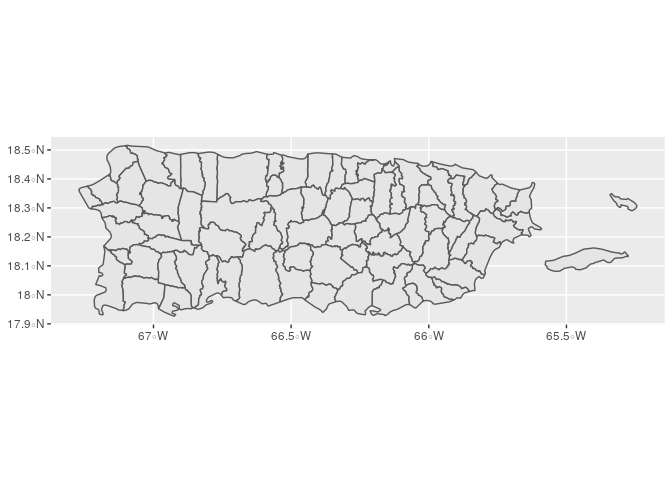
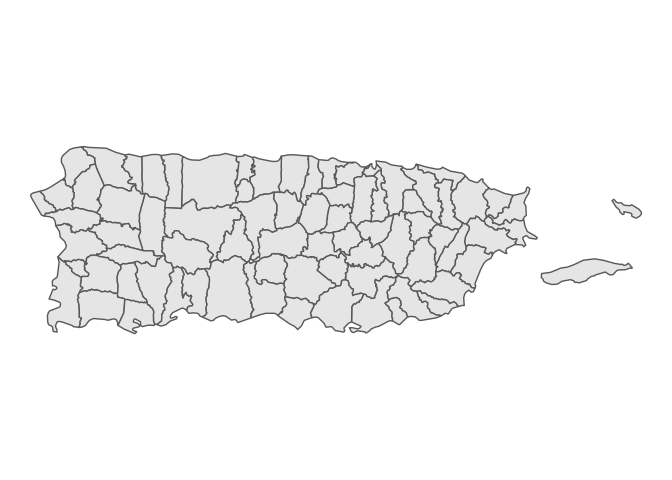
Fixing Travis CI

diff --git a/README.md b/README.md
@@ -28,7 +28,8 @@ devtools::install_github('ian-flores/tidymapgrid')
 
 ## Example
 
-This is a basic example which shows you how to solve a common problem:
+This is a basic example which shows you how to obtain the grid for your
+map.
 
 ``` r
 library(sf)
@@ -49,7 +50,8 @@ pueblos <- st_read(json_url)
 #> proj4string:    +proj=longlat +datum=WGS84 +no_defs
 
 ggplot(pueblos) +
-  geom_sf()
+  geom_sf() +
+  theme_void()
 ```
 
 <img src="man/figures/README-reg-ggplot-1.png" width="100%" />
@@ -58,7 +60,8 @@ ggplot(pueblos) +
 grid <- get_grid(pueblos, type = 'hexagonal', seed = 40)
 
 ggplot(grid) +
-  geom_sf()
+  geom_sf() +
+  theme_void()
 ```
 
 <img src="man/figures/README-get_grid-1.png" width="100%" />
